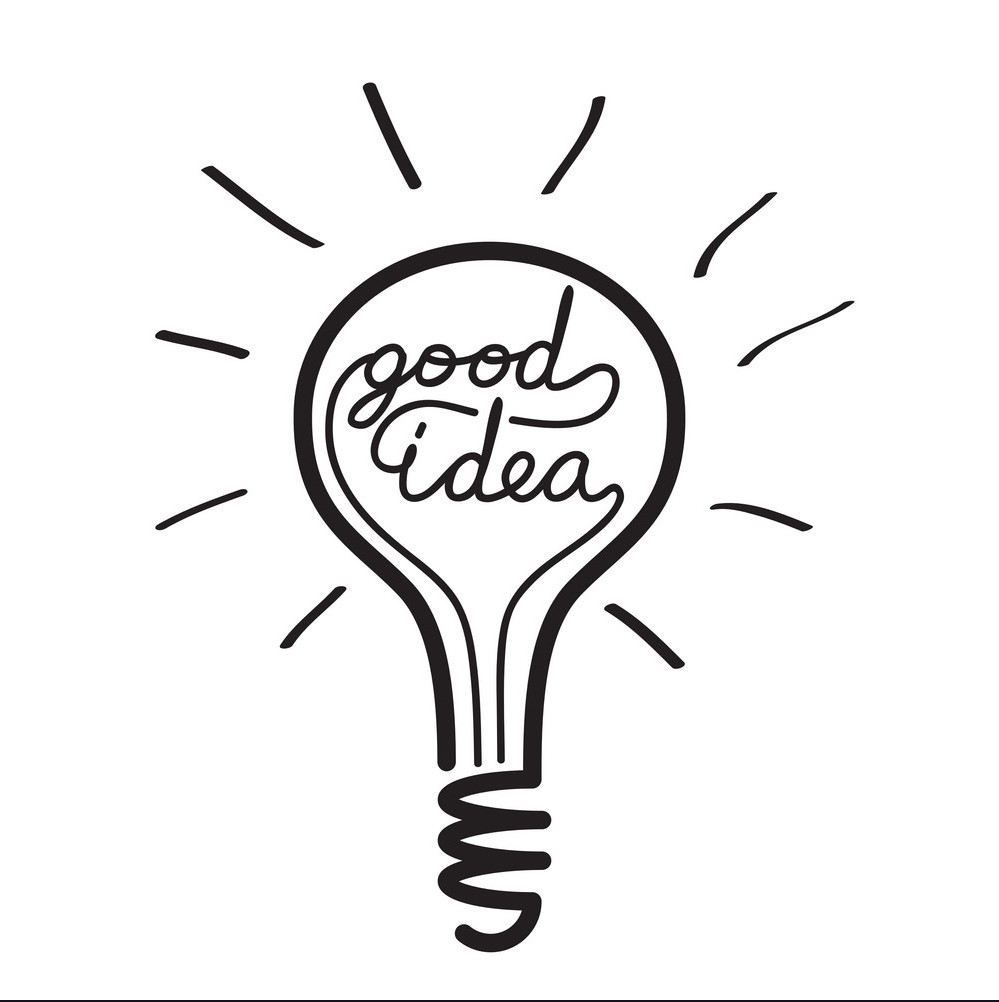
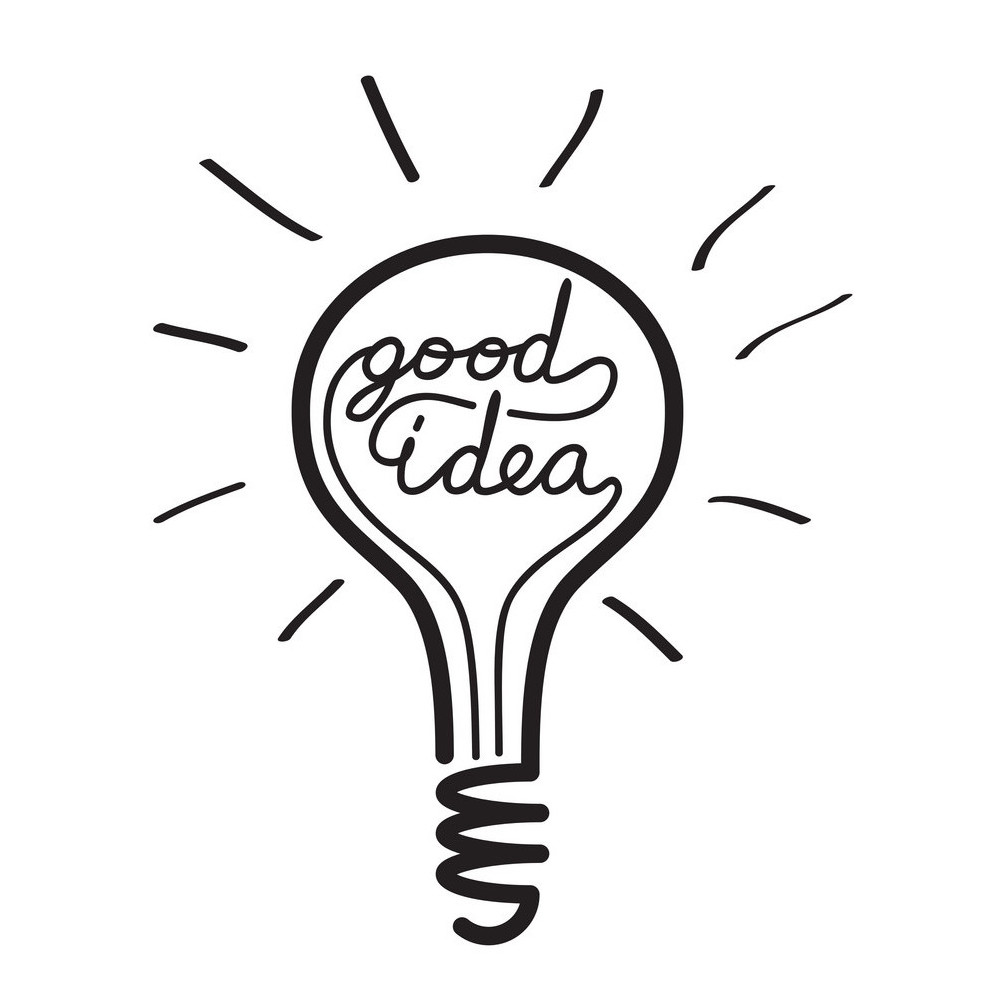
made some changes to photo sizes

diff --git a/index.html b/index.html
@@ -42,7 +42,7 @@
 
             <div class="assignment">
               <a href="assignment3.html"><h2>Assignment 3: Input Output!</h2>
-                  <img src="LDR-LED-horizontal.gif" width=300></a>
+                  <img src="LDR-LED-horizontal.gif" width=325></a>
                 <p>
                     Assignment 3 uses sensors!
                 </p>
@@ -51,7 +51,7 @@
             <p>
             <div class="assignment">
               <a href="final-project.html"><h2>Final Project Idea!</h2>
-                  <img src="idea-lightbulb.jpg" width=250></a>
+                  <img src="idea-lightbulb.jpg" width=150></a>
                 <p>
 		                Here's what I'm thinking...
                 </p>
